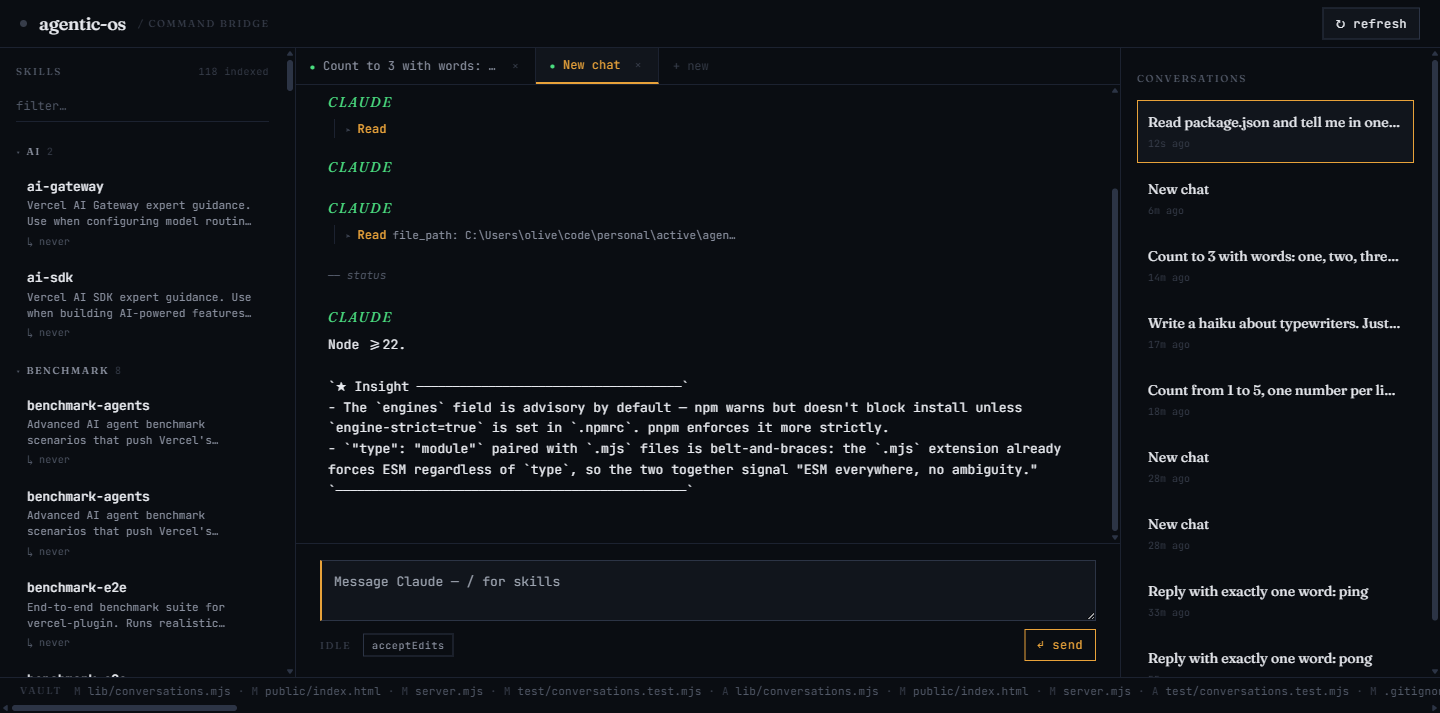
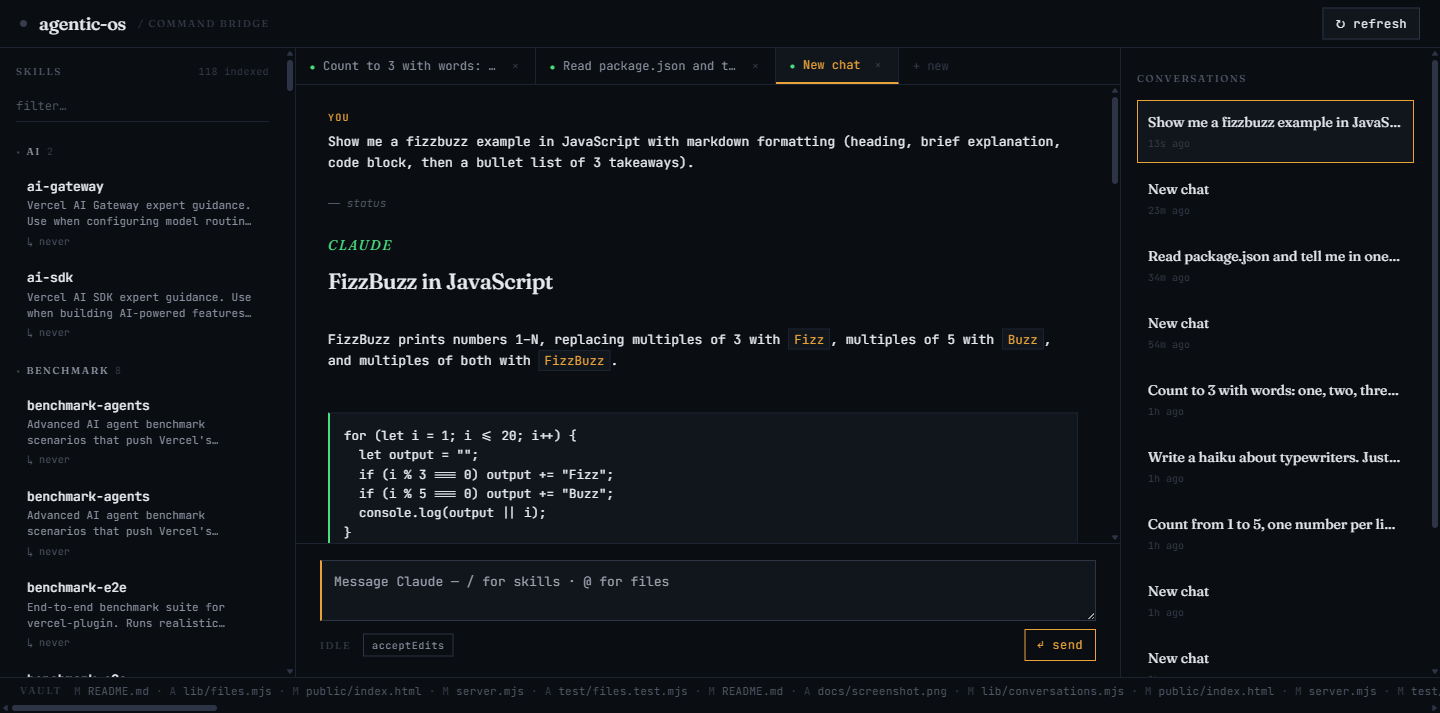
feat: full markdown rendering in assistant bubbles
Token-streamed markdown — code blocks, headings, inline code, bold/
italic, lists, blockquotes, tables, links. The single biggest jump
in perceived quality since chat mode shipped.

Implementation
- marked + DOMPurify via esm.sh (consistent with the existing
  Tailwind + Google Fonts CDN pattern). Zero runtime dependencies
  in package.json — keeps the README's claim honest.
- Each text content_block becomes a `<div class="markdown-text">`
  with raw text accumulated on `dataset.rawText`. On every
  text_delta we re-render the whole bubble's innerHTML from the
  raw text via marked → DOMPurify. Cheap for chat-sized replies
  (few KB), avoids partial-markdown rendering glitches incremental
  approaches hit.
- Same render path used on replay (saved transcript) — no special
  case for streaming vs hydrated chats.
- DOMPurify with USE_PROFILES.html guards against XSS in case the
  model emits HTML inside fenced blocks.

Styling
- Headings in Fraunces serif (operator/editorial vibe carries).
- Code blocks: bg-elev background, phosphor-green left border,
  horizontal scroll for long lines.
- Inline code: amber bordered chip.
- Bullet/numbered lists, blockquotes, hr, tables all themed to
  match.

Docs
- New hero screenshot showing the FizzBuzz example — heading,
  inline code, code block, all rendered. Replaces the
  pre-markdown shot.
- README bullet updated.

Tests still 65/65 passing (rendering is browser-side, no new
test surface).

diff --git a/public/index.html b/public/index.html
@@ -540,6 +540,61 @@
     }
     .conv-card .meta { font-size: 10px; color: var(--ink-ghost); }
 
+    /* Markdown rendering inside assistant bubbles.
+       Tuned for the editorial/operator vibe — Fraunces for headings, monospace
+       for code, amber accent for inline code + links. */
+    .markdown-text { font-family: 'JetBrains Mono', monospace; line-height: 1.65; color: var(--ink); }
+    .markdown-text > *:first-child { margin-top: 0; }
+    .markdown-text > *:last-child { margin-bottom: 0; }
+    .markdown-text p { margin: 0 0 12px; }
+    .markdown-text h1, .markdown-text h2, .markdown-text h3, .markdown-text h4 {
+      font-family: 'Fraunces', serif;
+      font-weight: 500;
+      color: var(--ink);
+      letter-spacing: -0.01em;
+      margin: 18px 0 8px;
+    }
+    .markdown-text h1 { font-size: 22px; }
+    .markdown-text h2 { font-size: 18px; }
+    .markdown-text h3 { font-size: 15px; }
+    .markdown-text h4 { font-size: 13px; text-transform: uppercase; letter-spacing: 0.08em; color: var(--ink-dim); }
+    .markdown-text strong { color: var(--ink); font-weight: 600; }
+    .markdown-text em { color: var(--ink-dim); font-style: italic; }
+    .markdown-text a { color: var(--accent); text-decoration: underline; text-decoration-color: var(--accent-glow); text-underline-offset: 2px; }
+    .markdown-text a:hover { text-decoration-color: var(--accent); }
+    .markdown-text ul, .markdown-text ol { margin: 0 0 12px; padding-left: 22px; }
+    .markdown-text li { margin: 2px 0; }
+    .markdown-text li > p { margin: 0 0 4px; }
+    .markdown-text blockquote {
+      margin: 8px 0 12px; padding: 6px 12px;
+      border-left: 2px solid var(--accent);
+      color: var(--ink-dim); background: var(--bg-elev);
+    }
+    .markdown-text code {
+      font-family: 'JetBrains Mono', monospace; font-size: 12.5px;
+      background: var(--bg-elev); color: var(--accent);
+      padding: 1px 5px; border: 1px solid var(--edge);
+    }
+    .markdown-text pre {
+      margin: 8px 0 12px; padding: 12px 14px;
+      background: var(--bg-elev); border: 1px solid var(--edge);
+      border-left: 2px solid var(--phosphor);
+      overflow-x: auto; font-size: 12.5px; line-height: 1.55;
+    }
+    .markdown-text pre code {
+      background: transparent; border: 0; padding: 0;
+      color: var(--ink); font-size: inherit;
+    }
+    .markdown-text hr { border: 0; border-top: 1px solid var(--edge); margin: 16px 0; }
+    .markdown-text table {
+      border-collapse: collapse; margin: 8px 0 12px;
+      font-size: 12px;
+    }
+    .markdown-text th, .markdown-text td {
+      border: 1px solid var(--edge); padding: 4px 10px; text-align: left;
+    }
+    .markdown-text th { background: var(--bg-elev); color: var(--ink-dim); font-weight: 500; }
+
     /* Permission chip — shows current permission-mode for active conversation. */
     .permission-chip {
       font-family: 'JetBrains Mono', monospace; font-size: 10px;
@@ -656,6 +711,18 @@
   </div>
 
   <script type="module">
+    // Markdown rendering: marked parses GFM, DOMPurify sanitises against XSS.
+    // Both from esm.sh — same mental model as the Tailwind + fonts CDNs above.
+    // Pinned to majors; both libraries are stable.
+    import { marked } from 'https://esm.sh/marked@12';
+    import DOMPurify from 'https://esm.sh/dompurify@3';
+    marked.setOptions({ breaks: true, gfm: true });
+
+    function renderMarkdown(text) {
+      const html = marked.parse(String(text || ''));
+      return DOMPurify.sanitize(html, { USE_PROFILES: { html: true } });
+    }
+
     const $ = (sel) => document.querySelector(sel);
 
     async function fetchJson(url) {
@@ -1124,17 +1191,25 @@
             pendingTools.set(ev.content_block.id, placeholder);
             body.appendChild(det);
           } else if (ev.content_block?.type === 'text') {
-            // Mark a span for this block — deltas append to it
-            const span = document.createElement('span');
-            span.dataset.blockIdx = String(ev.index);
-            body.appendChild(span);
+            // Markdown-rendered container for this text block. We store raw text
+            // on the element and re-render its innerHTML from scratch on every
+            // delta — fine for chat-sized replies (few KB), and avoids partial
+            // markdown rendering glitches that incremental approaches hit.
+            const div = document.createElement('div');
+            div.className = 'markdown-text';
+            div.dataset.blockIdx = String(ev.index);
+            div.dataset.rawText = '';
+            body.appendChild(div);
           }
         } else if (ev.type === 'content_block_delta') {
           const bubble = container.querySelector('.chat-msg.assistant.streaming');
           if (!bubble) return;
           if (ev.delta?.type === 'text_delta') {
-            const span = bubble.querySelector(`span[data-block-idx="${ev.index}"]`);
-            if (span) span.textContent += ev.delta.text;
+            const div = bubble.querySelector(`.markdown-text[data-block-idx="${ev.index}"]`);
+            if (div) {
+              div.dataset.rawText = (div.dataset.rawText || '') + ev.delta.text;
+              div.innerHTML = renderMarkdown(div.dataset.rawText);
+            }
           }
           // input_json_delta is partial JSON for tool args — we wait for the
           // final assistant event for tool args (simpler than streaming JSON parse).
@@ -1175,9 +1250,11 @@
         const body = bubble.querySelector('.body');
         for (const block of event.message.content) {
           if (block.type === 'text') {
-            const span = document.createElement('span');
-            span.textContent = block.text;
-            body.appendChild(span);
+            const div = document.createElement('div');
+            div.className = 'markdown-text';
+            div.dataset.rawText = block.text;
+            div.innerHTML = renderMarkdown(block.text);
+            body.appendChild(div);
           } else if (block.type === 'tool_use') {
             const det = document.createElement('details');
             det.className = 'tool-call is-finalized';

diff --git a/README.md b/README.md
@@ -12,7 +12,7 @@ Agentic OS is that surface. It spawns the same `claude` CLI you already have ins
 
 ## What's in the box
 
-- **Multi-turn chat** with token-by-token streaming — feels like the real thing because it *is* the real thing.
+- **Multi-turn chat** with token-by-token streaming and full markdown rendering — code blocks, headings, inline code, lists, links. Looks like a real chat app, because it is.
 - **Tabs + persistent conversations** — every chat is saved as JSONL on disk under `data/projects/<hash>/conversations/`. Refresh the page, your chat is still there. Resumable across server restarts via `claude --resume`.
 - **Per-project workspaces** — click the wordmark in the top-left to switch projects. Each project gets its own conversation history, skill scope, and vault-changes feed.
 - **Skill + file autocomplete** — type `/` to fuzzy-search every skill installed in `~/.claude/skills` and across your installed plugins (175+ in a typical setup). Type `@` to fuzzy-search files in the active project. Tab to insert. Claude reads `@path` mentions natively.
